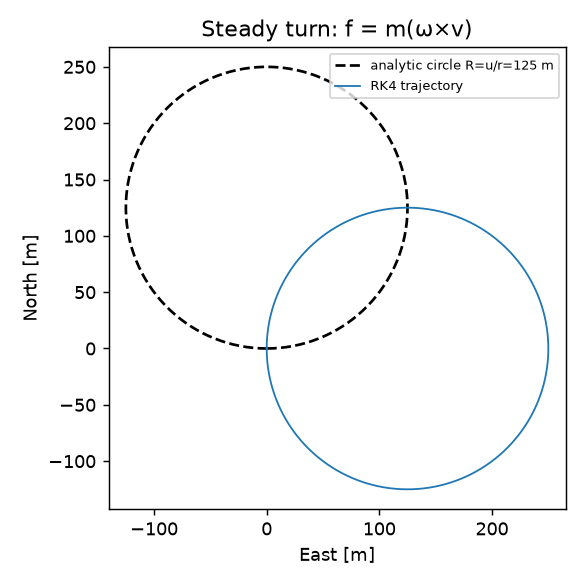
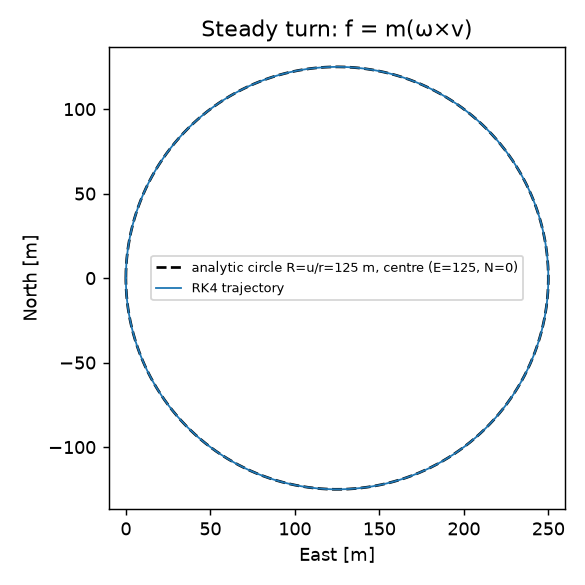
Fix steady-turn plot (E/N swapped), add overlap guard; start interview_prep.md

diff --git a/scripts/phase1_plots.py b/scripts/phase1_plots.py
@@ -48,7 +48,13 @@ def fig_turn():
                               post_step=dyn.normalize_quat_state)
     fig, ax = plt.subplots(figsize=(4.5, 4.5))
     th = np.linspace(0, 2 * np.pi, 400)
-    ax.plot(u / r * np.sin(th), u / r * (1 - np.cos(th)), "k--", label=f"analytic circle R=u/r={u / r:.0f} m")
+    # Heading North at t=0, turning right: North = R sin(rt), East = R (1 - cos(rt)); plot x=East, y=North.
+    R = u / r
+    east_exact, north_exact = R * (1 - np.cos(r * t)), R * np.sin(r * t)
+    err = np.hypot(X[:, 1] - east_exact, X[:, 0] - north_exact).max()
+    if err > 1e-5:  # plot-script guard: analytic circle and RK4 path must overlap
+        raise AssertionError(f"turn plot: RK4 path and analytic circle differ by {err:.3e} m")
+    ax.plot(R * (1 - np.cos(th)), R * np.sin(th), "k--", label=f"analytic circle R=u/r={R:.0f} m, centre (E={R:.0f}, N=0)")
     ax.plot(X[:, 1], X[:, 0], label="RK4 trajectory", lw=1)
     ax.set(xlabel="East [m]", ylabel="North [m]", title="Steady turn: f = m(ω×v)"); ax.axis("equal")
     ax.legend(fontsize=7); fig.tight_layout(); fig.savefig(OUT / "phase1_turn.png", dpi=130); plt.close(fig)

diff --git a/docs/interview_prep.md b/docs/interview_prep.md
@@ -1,0 +1,44 @@
+# Interview prep — questions with model answers
+
+One section per phase, appended as the project grows. Answers are written to be spoken, then
+backed by the equation/test that proves it. File references point at this repo.
+
+---
+
+## Phase 1 — Rigid-body kinematics & dynamics
+
+**Q1. Where does the `−ω×V` term in `u̇ = rv − qw + f_x/m` come from? Why does a steady turn need a lateral force `m·r·u` even though the body-frame velocity is constant?**
+Newton's law holds in an inertial frame, but we write the velocity in a rotating (body) frame. The
+transport theorem gives `dV/dt|_i = dV/dt|_b + ω×V`, so `m(V̇_b + ω×V) = F`. The `ω×V` term is not a
+force; it is the rotation of the axes. In a steady turn the body-frame components `u,v,w` are
+constant but the *inertial* velocity vector rotates, so a real centripetal force `m·u²/R = m·r·u`
+(R = u/r) is needed. Test: `test_steady_turn_is_a_circle_of_radius_u_over_r`; its negative control
+removes the force and `v` runs away.
+
+**Q2. Why did the steady-turn test need a pitching moment when Jxz ≠ 0?**
+`ω×Jω` for `ω=[0,0,r]` is `[0, −Jxz r², 0]`: with a product of inertia, a pure yaw rate gives angular
+momentum with an x-component, and rotating that vector demands a pitch moment. Without it `q̇ = Jxz r²/Jy ≠ 0`
+and the aircraft pitches (a real aircraft has the elevator/aero moment to balance this).
+
+**Q3. Why is ‖Jω‖ conserved in torque-free motion but the body-frame vector Jω is not? What is conserved inertially?**
+Angular momentum `h` is constant in the *inertial* frame. The body frame rotates, so its components
+`Jω` change while the magnitude is fixed. `h_i = R_b→v J ω` must be constant in all three components,
+which validates the attitude kinematics too: a wrong rotation (e.g. R instead of Rᵀ) makes it drift
+(`test_inertial_angular_momentum_check_detects_wrong_kinematics`). Kinetic energy `½ωᵀJω` is also conserved.
+
+**Q4. Explain gimbal lock physically. Why don't quaternions have it, and why still renormalize?**
+At θ = ±90° the roll axis (body x) aligns with the yaw axis (vertical), so φ and ψ rotate about the
+same line and only φ±ψ is defined; the rate map has `tan θ` and `1/cos θ` and blows up. It is a flaw of the
+3-parameter *representation*, not the aircraft. Quaternions are a 4-parameter, singularity-free cover of
+SO(3) (kinematics `ė = ½Ω(ω)e`, bounded). Numerical integration breaks `‖e‖=1` slowly (7e-6 drift in
+120 s of fast spin in our test), so we renormalize each step.
+
+**Q5. Why fixed-step RK4 in the sim loop instead of an adaptive solver? What does the convergence plot tell you?**
+SIL/HIL runs at a fixed rate with deterministic computation time; adaptive step sizes break real-time
+scheduling and make controller sampling inconsistent. RK4 is 4th order: halving dt cuts error ≈16× (we
+measured 18.5 and 17.7), so you can choose dt from an error budget. `solve_ivp` (DOP853, 1e-12) is
+used only as ground truth in tests.
+
+**Q6. (Bonus) Why do we derive the Γ form instead of just inverting J numerically?**
+Closed form with Γ1–Γ8 is cheap, explicit, matches the book and the Simulink port, and exposes the
+Jxz coupling between roll and yaw. We verify it against `solve(J, m − ω×Jω)` to machine precision.
